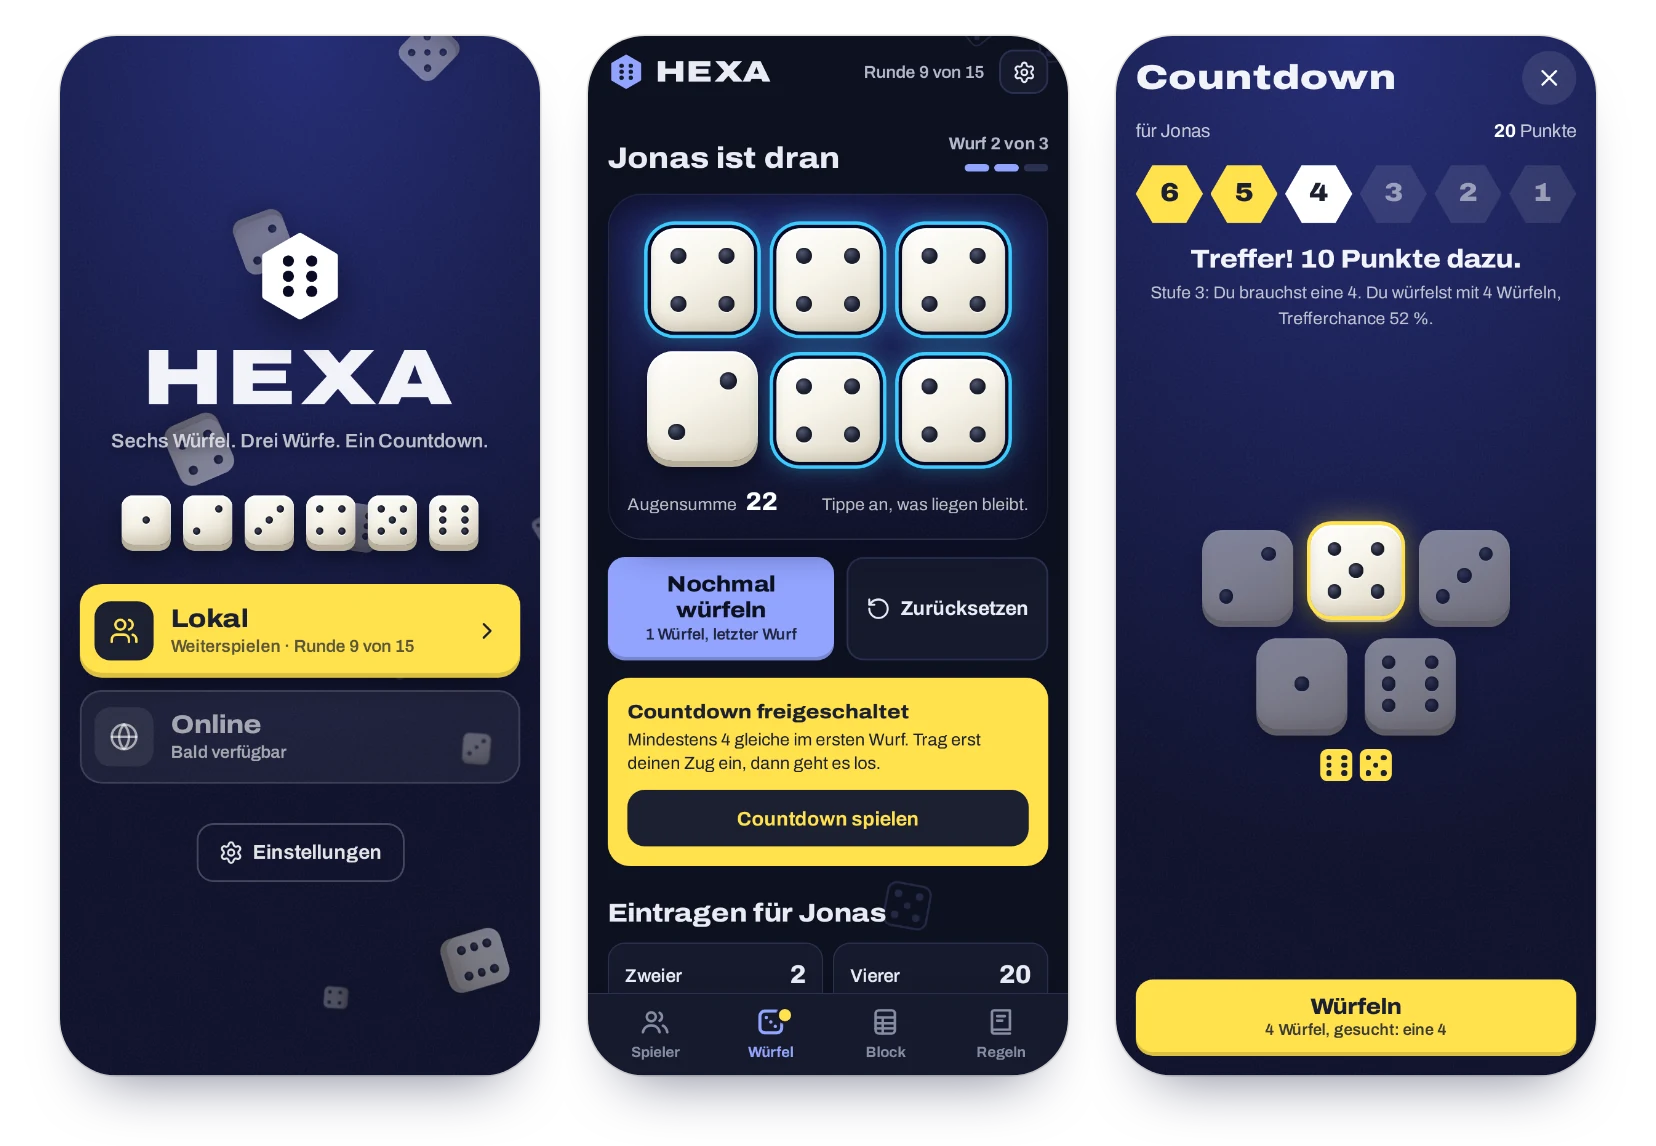
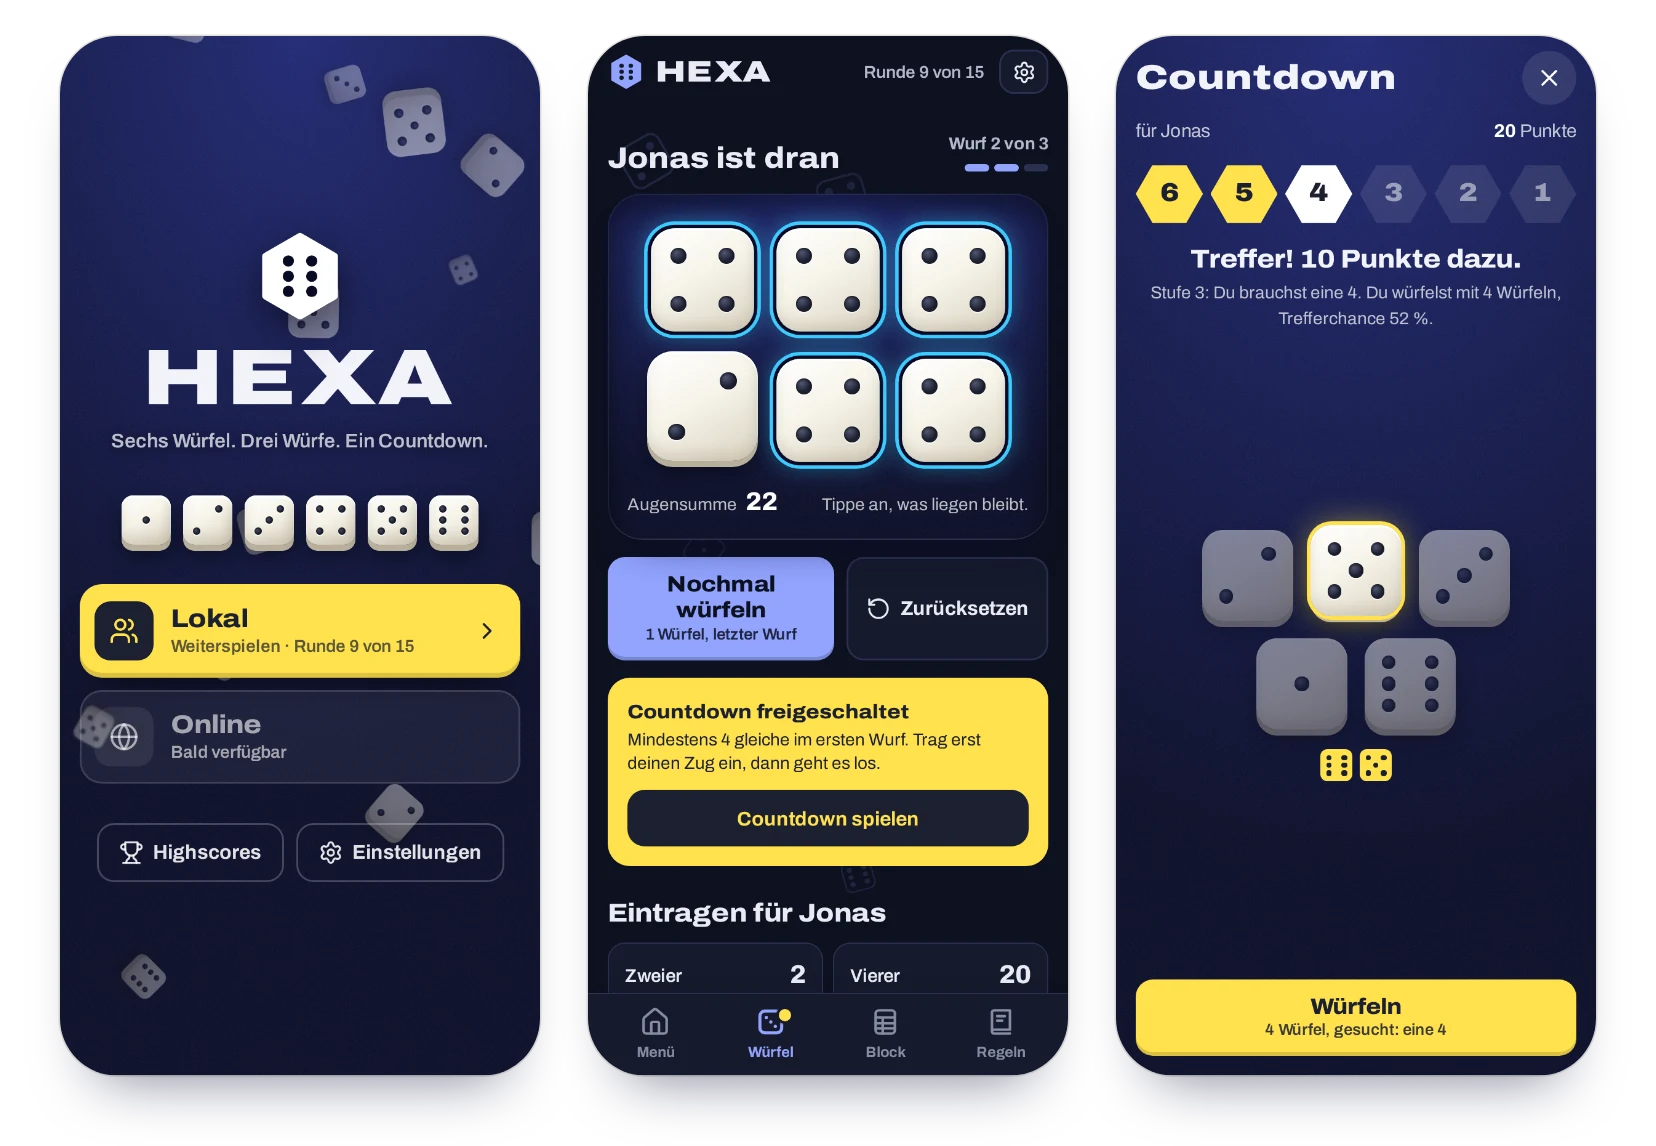
README, Screenshots und Changelog für 1.3.0
- Neuer Abschnitt „So läuft ein Spiel“ mit Bild von Spieler-Auswahl,
  Ergebnis und Highscores.
- Titelbild, Desktop-Ansicht und Vorschaubild zeigen das neue Hauptmenü
  und die Leiste mit „Menü“.
- Features und Changelog um den neuen Spielablauf ergänzt.

Claude-Session: https://claude.ai/code/session_01EyxE22HJnkbi7Dpw29RZbE

diff --git a/README.md b/README.md
@@ -21,7 +21,7 @@ Läuft direkt im Browser, auf dem Handy wie am Laptop. Ohne Installation, ohne K
 
 <picture>
   <source media="(prefers-color-scheme: dark)" srcset="docs/screenshots/hero-dark.webp">
-  <img src="docs/screenshots/hero-light.webp" width="880" alt="HEXA auf dem Handy: Startbildschirm mit fallenden Würfeln, Würfel mit gehaltenen Vierern und der Countdown">
+  <img src="docs/screenshots/hero-light.webp" width="880" alt="HEXA auf dem Handy: Hauptmenü mit fallenden Würfeln, Würfel mit gehaltenen Vierern und der Countdown">
 </picture>
 
 </div>
@@ -34,14 +34,30 @@ Wer geschickt plant, holt sich im oberen Block einen dicken Bonus. Und wer schon
 
 Die App ersetzt Würfel, Becher, Block und Stift. Ihr gebt einfach das Handy reihum – oder legt es in die Mitte.
 
+## So läuft ein Spiel
+
+1. Im Hauptmenü **Lokal** wählen und eintragen, wer mitspielt.
+2. Entscheiden, **womit ihr würfelt**: mit der App oder mit euren eigenen Würfeln. Den Spielblock führt die App in beiden Fällen.
+3. Reihum spielen. Über **Menü** könnt ihr jederzeit pausieren und später weitermachen.
+4. Nach 15 Runden auf **Spiel beenden** tippen. Das Ergebnis zeigt die Platzierung, die Punkte landen in den **Highscores**.
+
+<div align="center">
+<picture>
+  <source media="(prefers-color-scheme: dark)" srcset="docs/screenshots/flow-dark.webp">
+  <img src="docs/screenshots/flow-light.webp" width="880" alt="HEXA auf dem Handy: Spieler-Auswahl mit App- oder eigenen Würfeln, Ergebnis mit neuem Rekord und die Highscores">
+</picture>
+</div>
+
 ## Features
 
-- **Startbildschirm** – Spielmodus wählen: Lokal auf einem Gerät reihum spielen, Online kommt bald.
+- **Hauptmenü** – lokal auf einem Gerät reihum spielen, Highscores ansehen, Einstellungen öffnen. Online kommt bald.
+- **Mit App- oder eigenen Würfeln** – vor dem Spiel wählen: Die App würfelt für euch, oder ihr würfelt selbst und nutzt nur den Spielblock.
 - **Würfeln mit Gefühl** – sechs Würfel mit Rollanimation, Klackern und Vibration. Tippen hält einen Würfel fest, nochmal Tippen löst ihn wieder.
 - **Spielblock, der mitrechnet** – Summen, Bonus und Endstand werden automatisch berechnet. Nach jedem Wurf zeigt die App, wie viele Punkte jedes freie Feld bringen würde.
 - **Countdown als Bonusspiel** – wird automatisch freigeschaltet und direkt nach dem Zug gestartet.
-- **Mehrere Personen oder solo** – Reihenfolge festlegen, Namen ändern, Bestenliste mit den fünf besten Ergebnissen.
-- **Nichts geht verloren** – der Spielstand bleibt auch nach dem Schließen erhalten. Einträge, gelöschte Personen oder ein neues Spiel lassen sich mit einem Tipp rückgängig machen.
+- **Mehrere Personen oder solo** – Reihenfolge vor dem Spiel festlegen. Im Spiel lassen sich Namen ändern und Personen entfernen.
+- **Spielende und Highscores** – das Ergebnis zeigt alle Platzierungen und neue Rekorde. Die zehn besten Ergebnisse bleiben auf dem Gerät gespeichert, Online-Highscores kommen bald.
+- **Nichts geht verloren** – Spiele lassen sich pausieren und bleiben auch nach dem Schließen erhalten. Einträge, entfernte Personen oder ein abgebrochenes Spiel lassen sich mit einem Tipp rückgängig machen.
 - **Regeln eingebaut** – Kurzübersicht, Beispiele und Wahrscheinlichkeiten für Neugierige.
 - **Einstellungen** – Design hell, dunkel oder automatisch. Musik und Spielsounds lassen sich getrennt an- und ausschalten und leiser stellen.
 - **Ton** – Effekte und entspannte Lo-Fi-Musik, live im Browser erzeugt.
@@ -131,7 +147,7 @@ HEXA ist bewusst einfach gebaut: **reines HTML, CSS und JavaScript** – kein Fr
 
 - **Ton aus dem Browser:** Alle Effekte und die Lo-Fi-Musik entstehen live mit der Web Audio API. Es wird keine einzige Audiodatei geladen.
 - **Faire Würfel:** Zufallszahlen kommen aus `crypto.getRandomValues`, ohne Modulo-Verzerrung.
-- **Alles bleibt auf dem Gerät:** Spielstand, Bestenliste, Design und Ton werden im `localStorage` deines Browsers gespeichert und nie übertragen. Es gibt kein Konto und kein Backend.
+- **Alles bleibt auf dem Gerät:** Spielstand, Highscores, Design und Ton werden im `localStorage` deines Browsers gespeichert und nie übertragen. Es gibt kein Konto und kein Backend.
 - **Keine fremden Server:** Schriften und Icons liegen im Repository. Beim Spielen wird nichts von Google oder anderen Anbietern geladen. Es gibt keine Cookies und kein Tracking.
 - **Barrierearm:** Bedienbar per Tastatur, mit Screenreader-Beschriftungen, sichtbarem Fokus und Rücksicht auf *reduzierte Bewegung*.
 - **Moderne Web-APIs, wo verfügbar:** Screen Wake Lock (Bildschirm bleibt an), View Transitions (weicher Wechsel hell/dunkel), Vibration.

diff --git a/CHANGELOG.md b/CHANGELOG.md
@@ -3,6 +3,25 @@
 Alle wichtigen Änderungen an HEXA stehen hier.
 Das Format folgt [Keep a Changelog](https://keepachangelog.com/de/1.1.0/), die Versionen folgen [Semantic Versioning](https://semver.org/lang/de/).
 
+## [1.3.0] – 2026-09-25
+
+Neuer Spielablauf mit Spielende und Highscores.
+
+### Neu
+
+- **Spieler-Auswahl:** „Lokal“ führt zuerst zu „Wer spielt mit?“. Dort wählt ihr, ob mit der App oder mit eigenen Würfeln gespielt wird. Mit der App geht es zum Würfeln, mit eigenen Würfeln direkt zum Block.
+- **Spiel beenden:** Sind alle Runden gespielt, erscheint im Würfel- und im Block-Tab „Spiel beenden“. Das Ergebnis zeigt die Platzierung aller Personen und neue Rekorde. Danach geht es zurück ins Hauptmenü oder mit „Nochmal spielen“ direkt in ein neues Spiel.
+- **Highscores:** eigener Button im Hauptmenü mit den Tabs „Lokal“ (die zehn besten Ergebnisse auf diesem Gerät) und „Online“ (bald verfügbar).
+- **Pausieren und Abbrechen:** Über „Menü“ geht es jederzeit ins Hauptmenü. Ein pausiertes Spiel geht mit „Lokal“ weiter, ein abgebrochenes lässt sich rückgängig machen.
+- **Spieler im Spiel bearbeiten:** Ein Tipp auf einen Namen im Block benennt die Person um oder entfernt sie. Stehen schon Punkte drin, fragt die App vorher nach.
+
+### Geändert
+
+- **Leiste unten:** Aus „Spieler“ wird „Menü“. Es führt zurück ins Hauptmenü, das Logo oben ebenso.
+- **Bestenliste:** ist jetzt Teil der Highscores und zeigt zehn statt fünf Ergebnisse.
+- **Neues Spiel:** Der bisherige Knopf entfällt. Ein neues Spiel startet über „Nochmal spielen“ im Ergebnis oder über „Lokal“ im Hauptmenü.
+- **Ältere Spielstände:** Ein laufendes Spiel aus einer früheren Version geht einfach weiter.
+
 ## [1.2.0] – 2026-09-25
 
 Startbildschirm, Einstellungen und fallende Würfel.
@@ -52,6 +71,7 @@ Die erste Version von HEXA.
 - **Web-App:** installierbar auf dem Home-Bildschirm, Bildschirm bleibt während des Spiels an.
 - **Tests:** Wertung aller Felder mit `node --test` abgedeckt.
 
+[1.3.0]: https://github.com/unpacked-dev/hexa/releases/tag/v1.3.0
 [1.2.0]: https://github.com/unpacked-dev/hexa/releases/tag/v1.2.0
 [1.1.0]: https://github.com/unpacked-dev/hexa/releases/tag/v1.1.0
 [1.0.0]: https://github.com/unpacked-dev/hexa/releases/tag/v1.0.0
